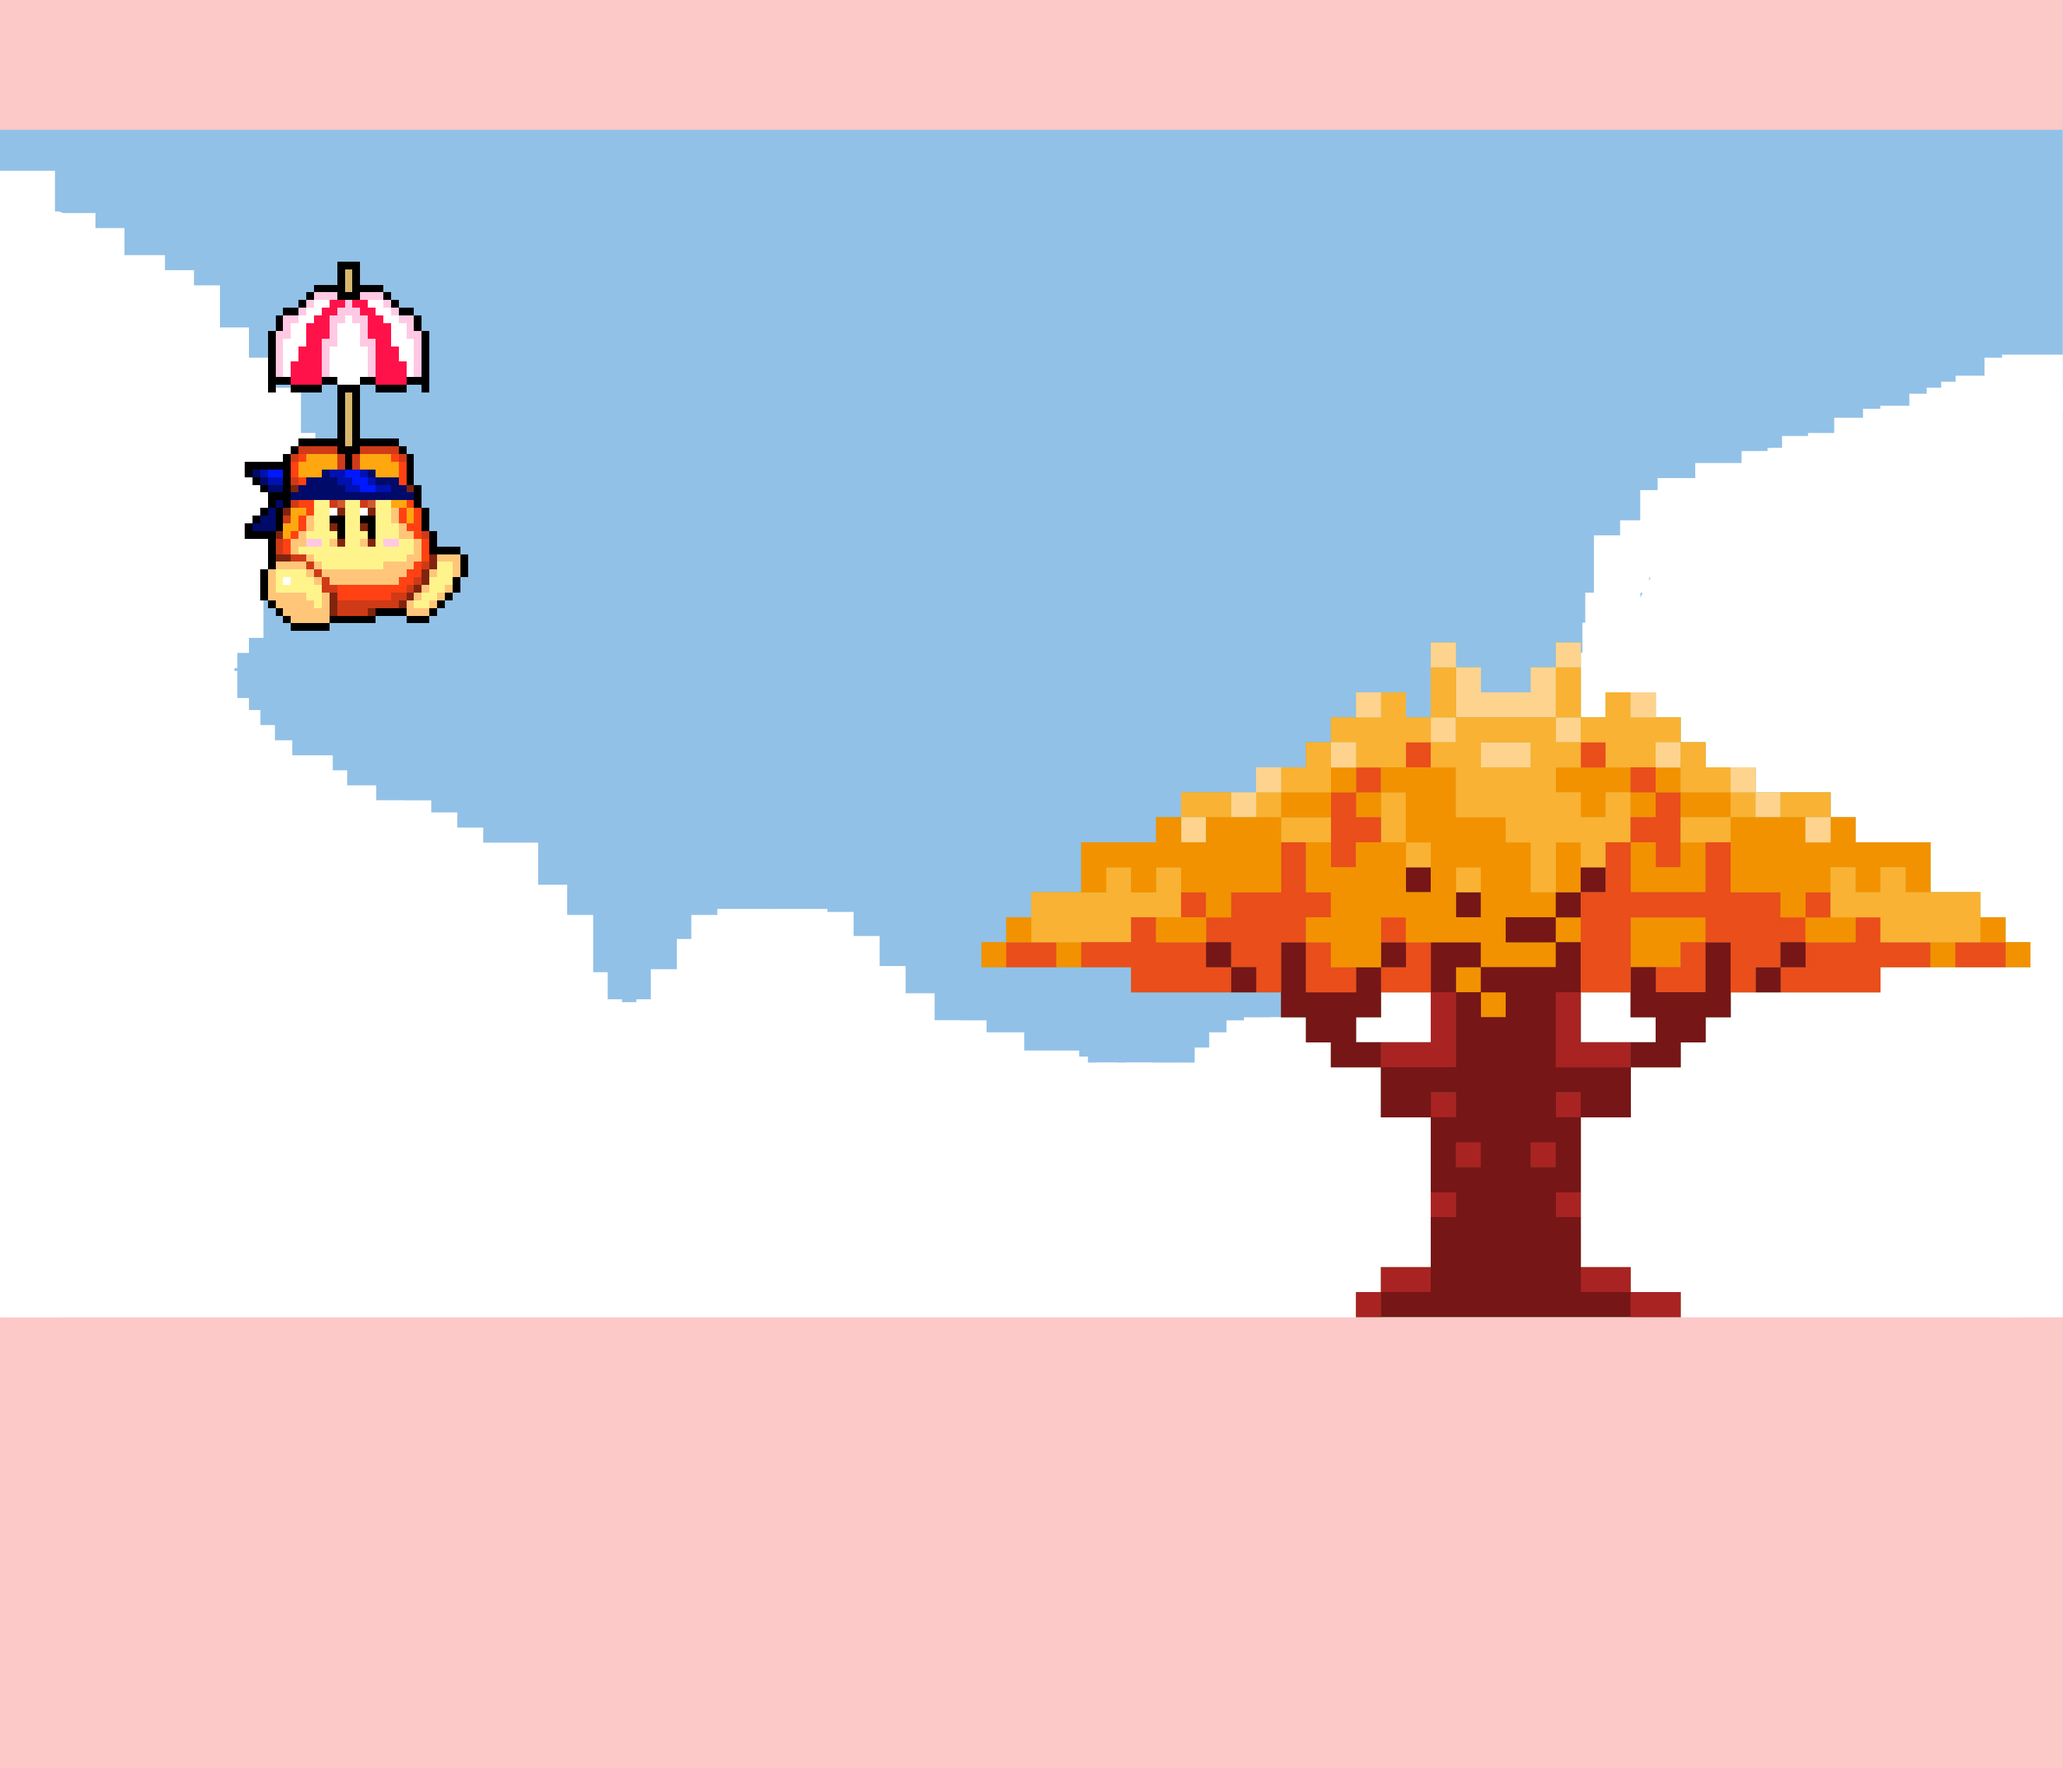
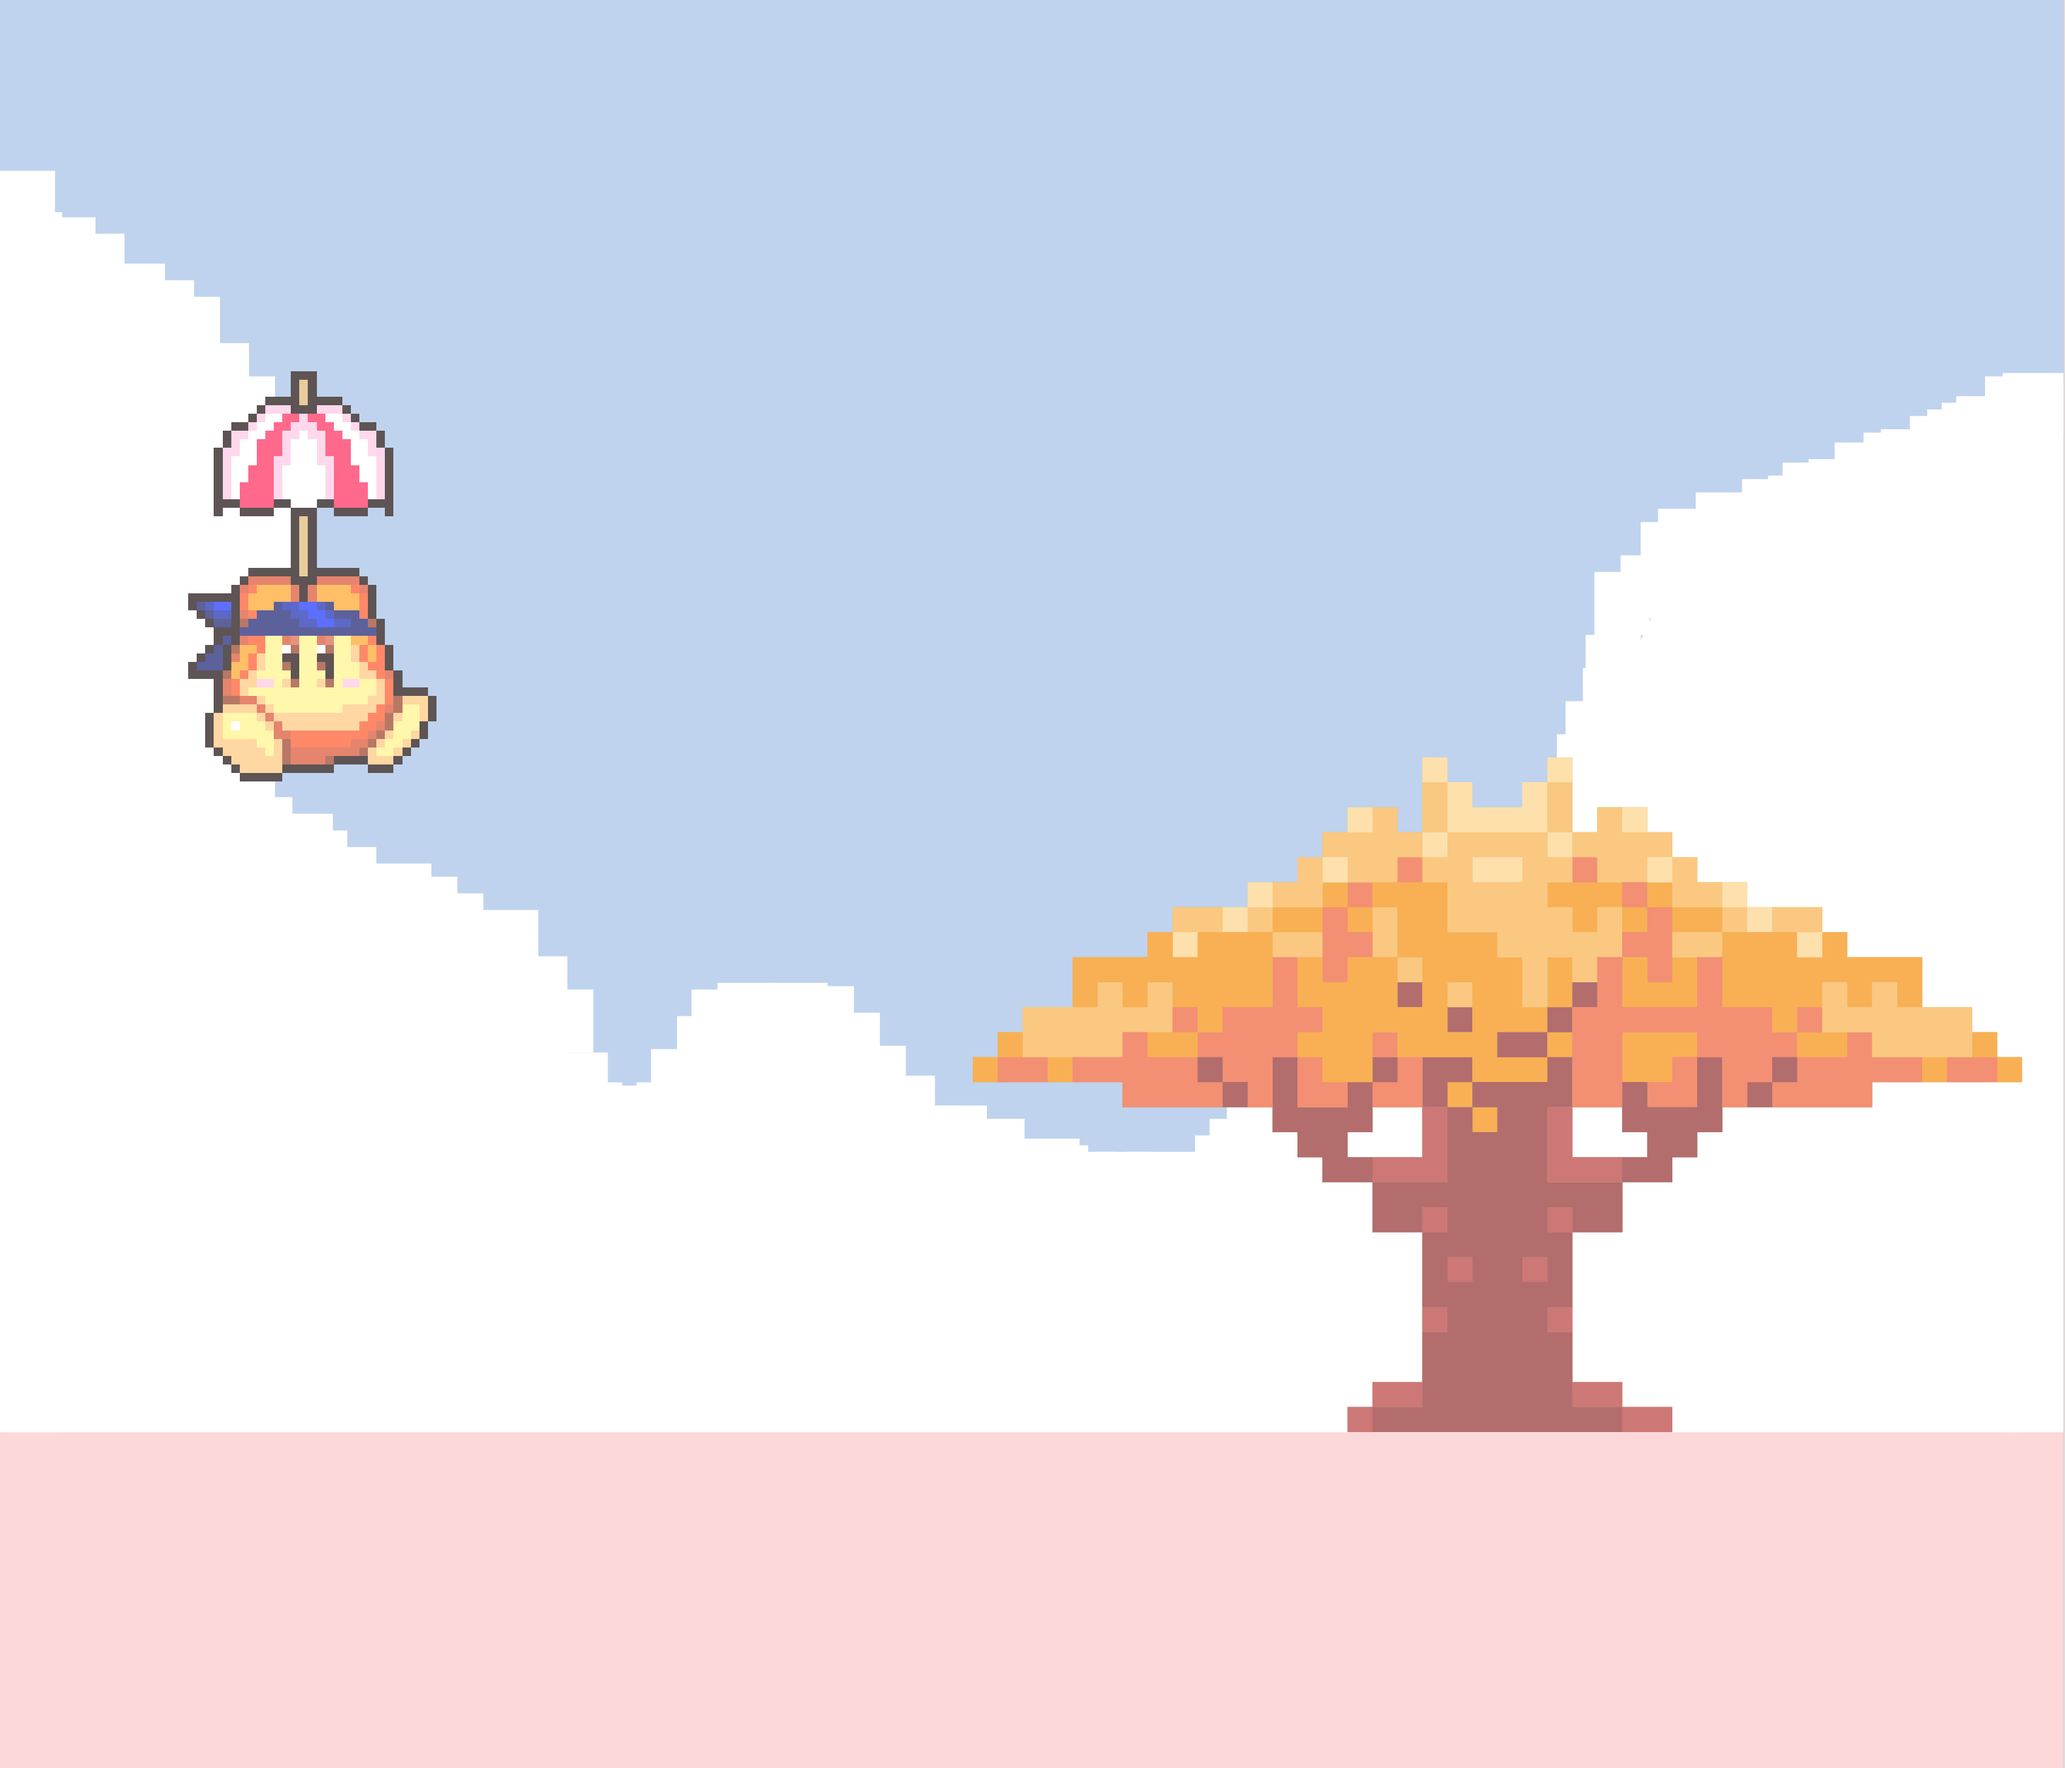
updated images and set background

diff --git a/screens.js b/screens.js
@@ -17,6 +17,8 @@ let score = 0;
 let kirbyX = 400;
 let kirbyY = 390;
 
+let backgroundImage;
+
 const particleSize = 70;
 let isGameActive = true;
 
@@ -24,6 +26,7 @@ function preload() {
   startScreenImg = loadImage("welcomescreen.png");
   loseScreenImg = loadImage("losescreen.png");
   winScreenImg = loadImage("winscreen.png");
+  backgroundImage = loadImage("kirbybackground.jpg");
 }
 
 function createParticle() {
@@ -305,16 +308,16 @@ function checkCollision(particle) {
 }
 
 function gameScreen() {
-  background(253, 212, 238);
+  background(backgroundImage);
   push();
-  fill(252, 193, 166);
+  fill(237, 177, 177);
   textFont("Helvetica");
   textSize(38);
   text("Level 1", 310, 40);
   rect(0, 500, 700);
   pop();
   push();
-  fill(252, 193, 166);
+  fill(252, 216, 216);
   textFont("Helvetica");
   textSize(18);
   text("Collect 3 green squares to level up", 222, 74);
@@ -357,7 +360,7 @@ function gameScreen() {
 }
 
 function gameScreenTwo() {
-  background(223, 222, 248);
+  background(backgroundImage);
   push();
   fill(252, 193, 166);
   textFont("Helvetica");
@@ -367,7 +370,7 @@ function gameScreenTwo() {
   pop();
 
   push();
-  fill(252, 193, 166);
+  fill(252, 216, 216);
   textFont("Helvetica");
   textSize(18);
   text("Collect 6 green squares to level up", 222, 74);
@@ -409,7 +412,7 @@ function gameScreenTwo() {
 }
 
 function gameScreenThree() {
-  background(254, 232, 178);
+  background(backgroundImage);
   push();
   fill(252, 113, 156);
   textFont("Helvetica");
@@ -419,7 +422,7 @@ function gameScreenThree() {
   pop();
 
   push();
-  fill(252, 193, 166);
+  fill(252, 216, 216);
   textFont("Helvetica");
   textSize(18);
   text("Collect 10 green squares to WIN", 222, 74);
